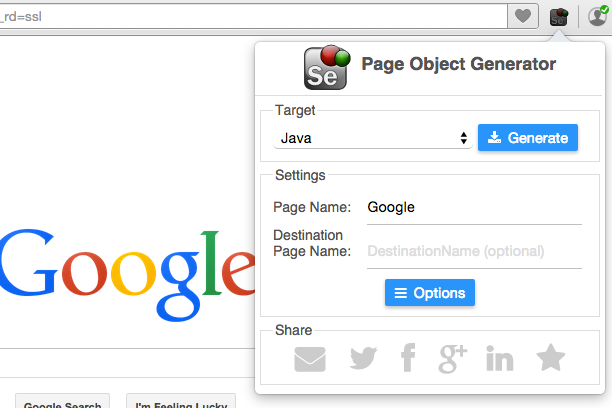
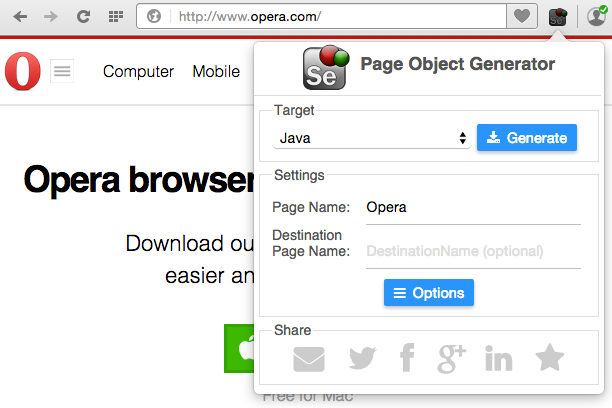
Adjust readme file and screenshots.

diff --git a/README.md b/README.md
@@ -1,4 +1,5 @@
 <a target="_blank" href="https://chrome.google.com/webstore/detail/epgmnmcjdhapiojbohkkemlfkegmbebb">![Try it now in Chrome Web Store](/images/chrome-web-store.png "Click here to install this extension from the Chrome Web Store")</a>
+<a target="_blank" href="https://addons.opera.com/en/extensions/details/selenium-page-object-generator">![Try it now in Opera Addons Catalog](/images/opera-addons-catalog.png "Click here to install this extension from the Opera Addons Catalog")</a>
 
 
 Selenium Page Object Generator
@@ -6,7 +7,7 @@ Selenium Page Object Generator
 
 A nimble and flexible [Selenium Page Object Model](https://code.google.com/p/selenium/wiki/PageObjects) generator to improve [agile testing](https://en.wikipedia.org/wiki/Agile_testing) [process velocity](https://en.wikipedia.org/wiki/Velocity_(software_development)).
 
-Selenium Page Object Generator is an essential tool to improve your workflow. It will generate [Page Object Model](http://martinfowler.com/bliki/PageObject.html) on active [Chrome](https://www.google.com/chrome/browser/desktop/index.html) or [Opera](http://www.opera.com/) tab with a single click, provided that all the options and template are configured. The generated Page Object Model will be saved to pre-configured Chrome or Opera download folder.
+Selenium Page Object Generator is an essential tool to improve your workflow. It will generate [Page Object Model](http://martinfowler.com/bliki/PageObject.html) on active [Chrome](https://www.google.com/chrome/browser/desktop/index.html) or [Opera](http://www.opera.com/) tab with a single click, provided that all of the options and template are configured. The generated Page Object Model will be saved to pre-configured Chrome or Opera download folder.
 
 The template is using [Handlebars.js](http://handlebarsjs.com/) expression, a clean logic-less semantic templating language.
 
@@ -25,10 +26,11 @@ Robot Framework: [http://robotframework.org/robotframework/latest/RobotFramework
 Installation
 -
 To install the newest released version on Chrome browser, please download it from [Chrome web store](https://chrome.google.com/webstore/detail/epgmnmcjdhapiojbohkkemlfkegmbebb).
+To install the newest released version on Opera browser, please download it from [Opera addons catalog](https://addons.opera.com/en/extensions/details/selenium-page-object-generator).
 
 Development Dependencies
 -
-You’ll need to install [Node.js](https://nodejs.org/) as a local development dependency. The `npm` package manager comes bundled with all recent releases of `Node.js`.
+You will need to install [Node.js](https://nodejs.org/) as a local development dependency. The `npm` package manager comes bundled with all recent releases of `Node.js`.
 
 `npm install` will attempt to resolve any `npm` module dependencies that have been declared in the project’s `package.json` file, installing them into the `node_modules` folder.
 
@@ -71,4 +73,4 @@ Licenses and Acknowledgements for Incorporated Software
 - [jQuery](https://jquery.com/) is an [open source](http://opensource.org) software provided under [MIT license](http://opensource.org/licenses/MIT).
 
 Screenshot
-![screenshot](/images/popup.png)
+![screenshot](/images/screenshot-opera-1.png)
